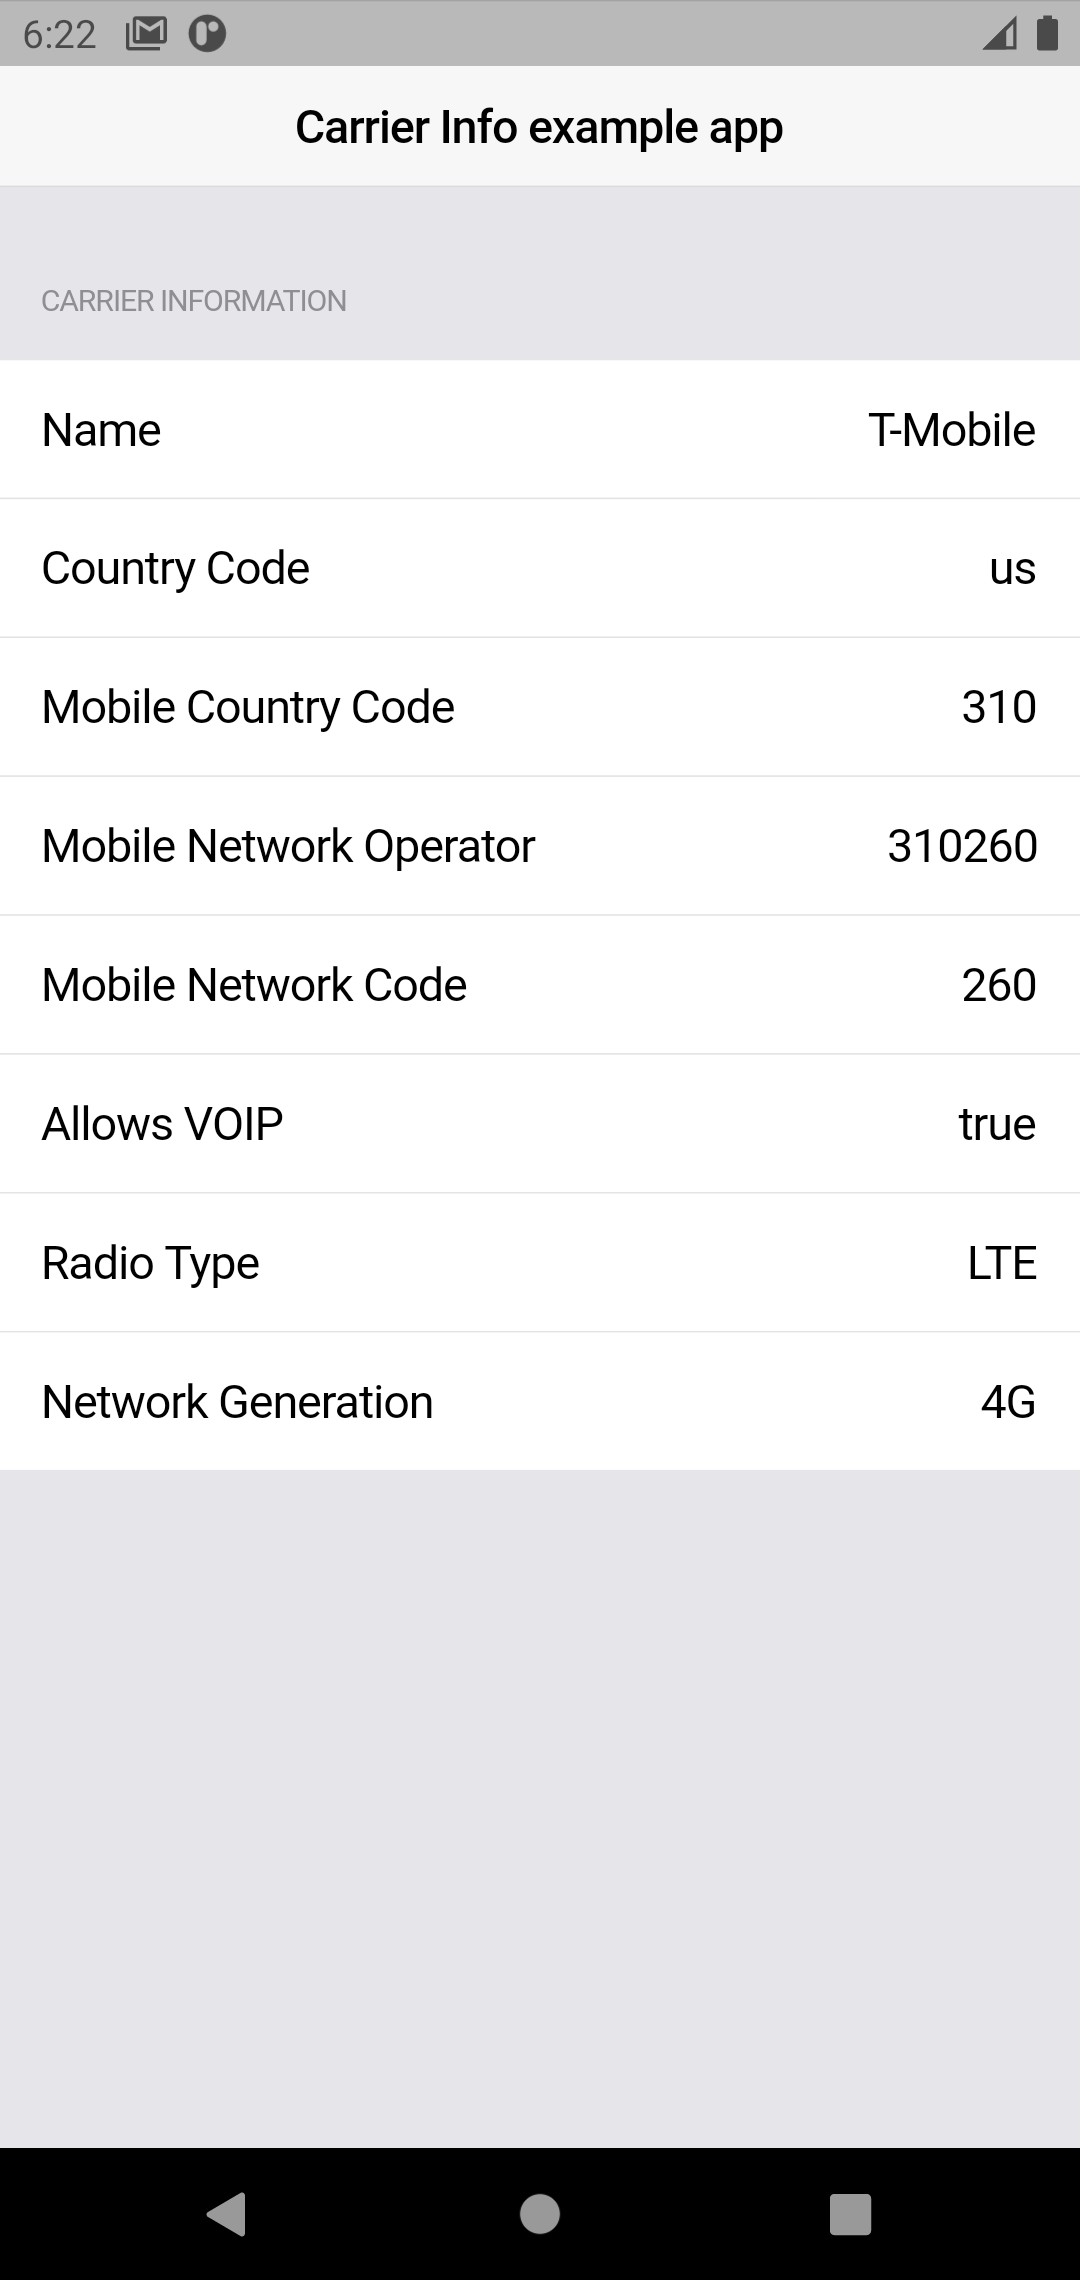
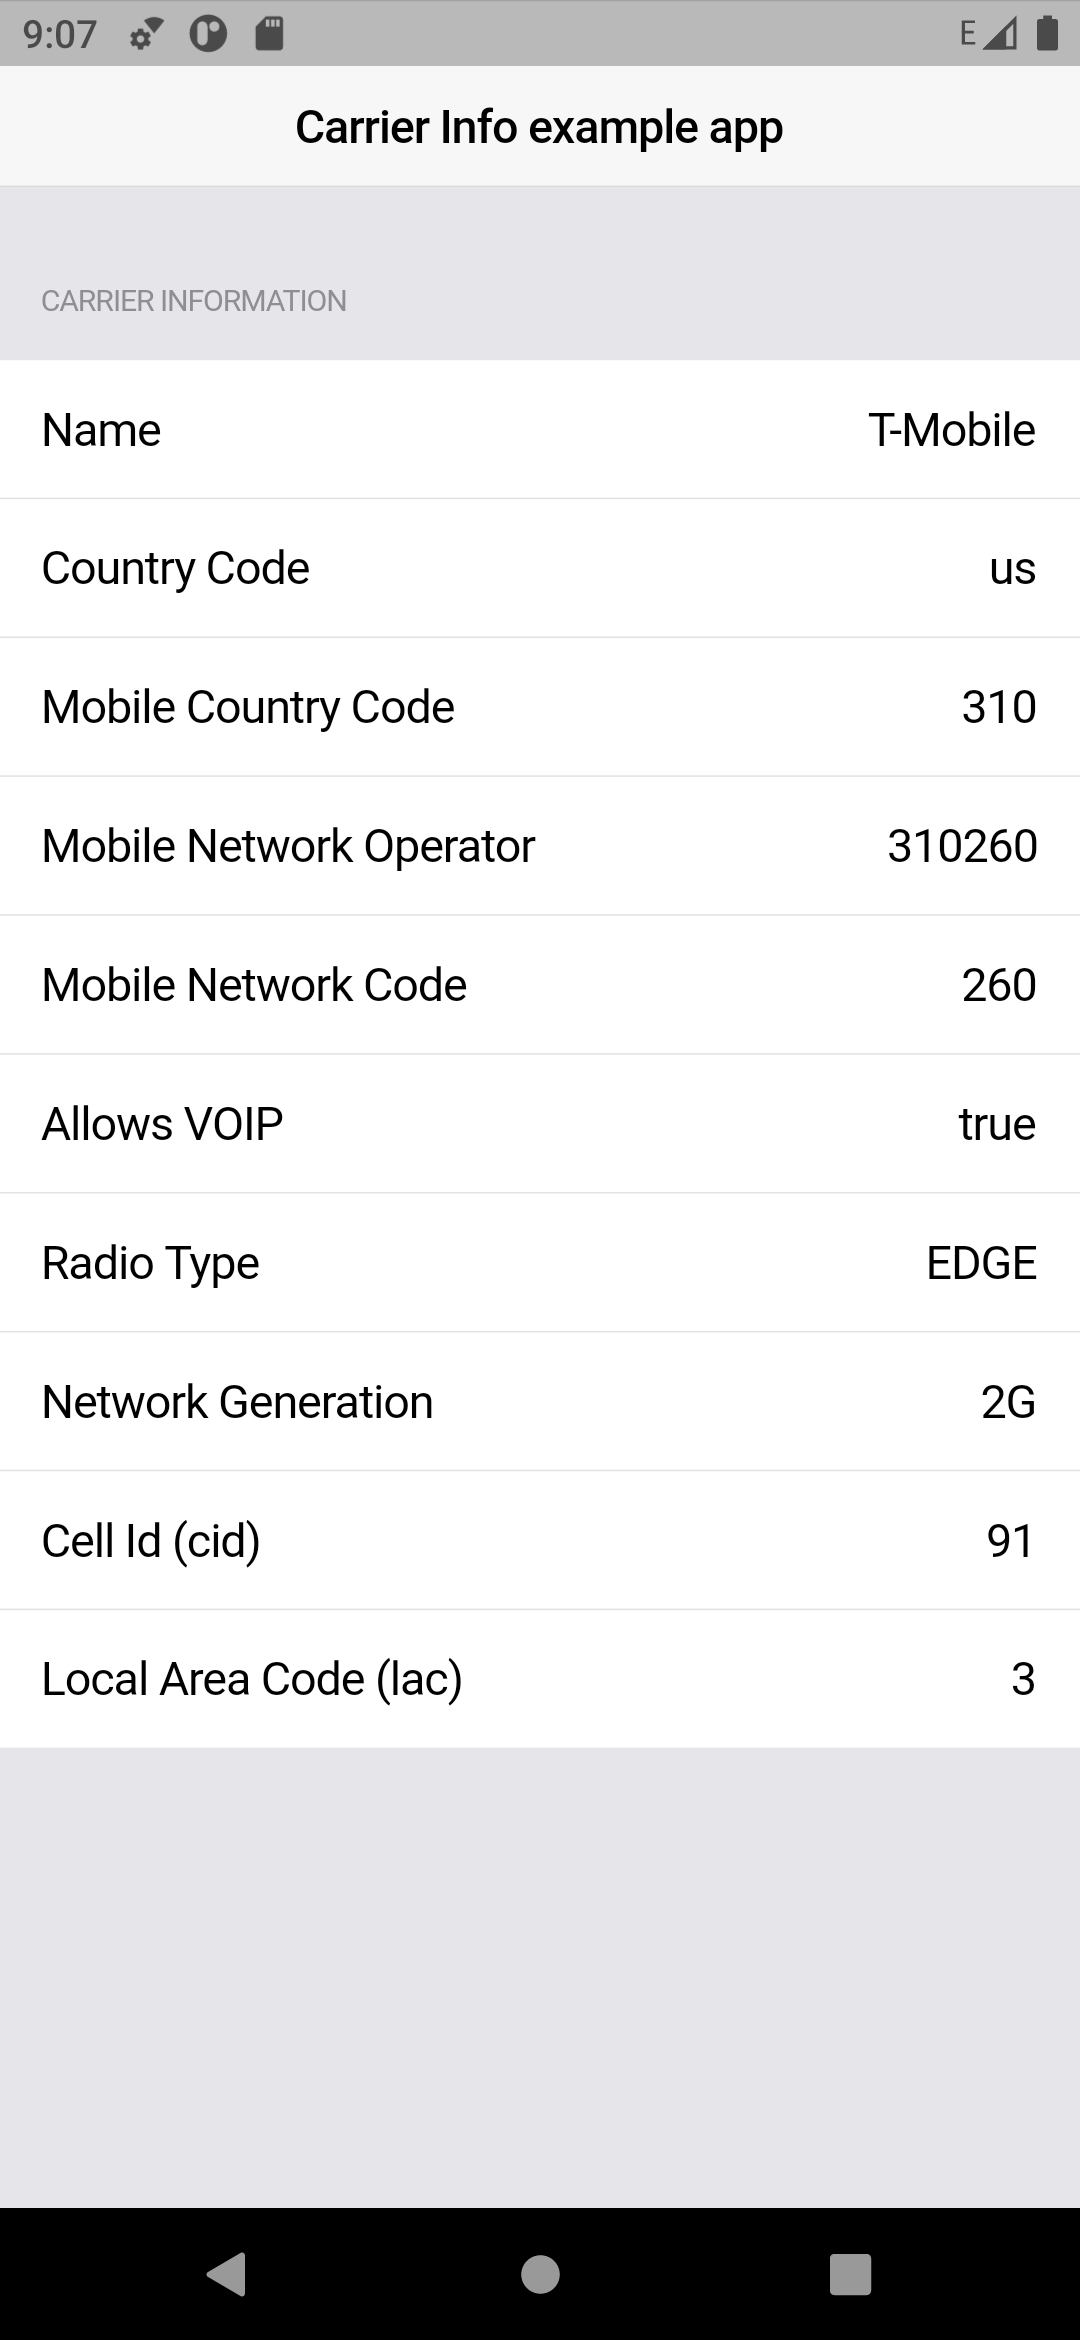
fix: request permissions before getting data from the app, added documentation for cid and lac

diff --git a/example/lib/main.dart b/example/lib/main.dart
@@ -2,6 +2,7 @@ import 'package:flutter/cupertino.dart';
 import 'dart:async';
 import 'package:carrier_info/carrier_info.dart';
 import 'package:flutter/material.dart';
+import 'package:permission_handler/permission_handler.dart';
 
 void main() {
   runApp(MyApp());
@@ -23,6 +24,12 @@ class _MyAppState extends State<MyApp> {
 
   // Platform messages are asynchronous, so we initialize in an async method.
   Future<void> initPlatformState() async {
+    // Ask for permissions before requesting data
+    await [
+      Permission.locationWhenInUse,
+      Permission.phone,
+    ].request();
+
     // Platform messages may fail, so we use a try/catch PlatformException.
     try {
       carrierInfo = await CarrierInfo.all;

diff --git a/README.md b/README.md
@@ -1,7 +1,8 @@
 # 📱 Carrier Info
+
 [![pub package](https://img.shields.io/pub/v/carrier_info.svg?label=carrier_info&color=blue)](https://pub.dev/packages/carrier_info)
 
-Carrier Info gets networkType, networkGeneration, mobileCountryCode, mobileCountryCode, e.t.c from both android and ios devices. It's a port from this [js project](https://github.com/react-native-webrtc/react-native-carrier-info) and an improvement on the existing [flt_telephony_info  package](https://pub.dev/packages/flt_telephony_info).
+Carrier Info gets networkType, networkGeneration, mobileCountryCode, mobileCountryCode, e.t.c from both android and ios devices. It's a port from this [js project](https://github.com/react-native-webrtc/react-native-carrier-info) and an improvement on the existing [flt_telephony_info package](https://pub.dev/packages/flt_telephony_info).
 
 ## 📸 Screen Shots
 
@@ -75,5 +76,18 @@ String carrierInfo = await CarrierInfo.networkGeneration // 5G, 4G ... 2G
 String carrierInfo = await CarrierInfo.radioType // LTE, HSDPA, e.t.c
 ```
 
+### cid (Android only)
+
+```dart
+int carrierInfo = await CarrierInfo.cid // Cell Id, only on android for now, returns null on iPhone
+```
+
+### lac (Android only)
+
+```dart
+int carrierInfo = await CarrierInfo.lac //  Local Area Code, only on android for now, returns null on iPhone
+```
+
 ## ✨ Contribution
- Lots of PR's would be needed to make this plugin standard, as for iOS there's a permanent limitation for getting the exact data usage, there's only one way around it and it's super complex.
+
+Lots of PR's would be needed to make this plugin standard, as for iOS there's a permanent limitation for getting the exact data usage, there's only one way around it and it's super complex.
